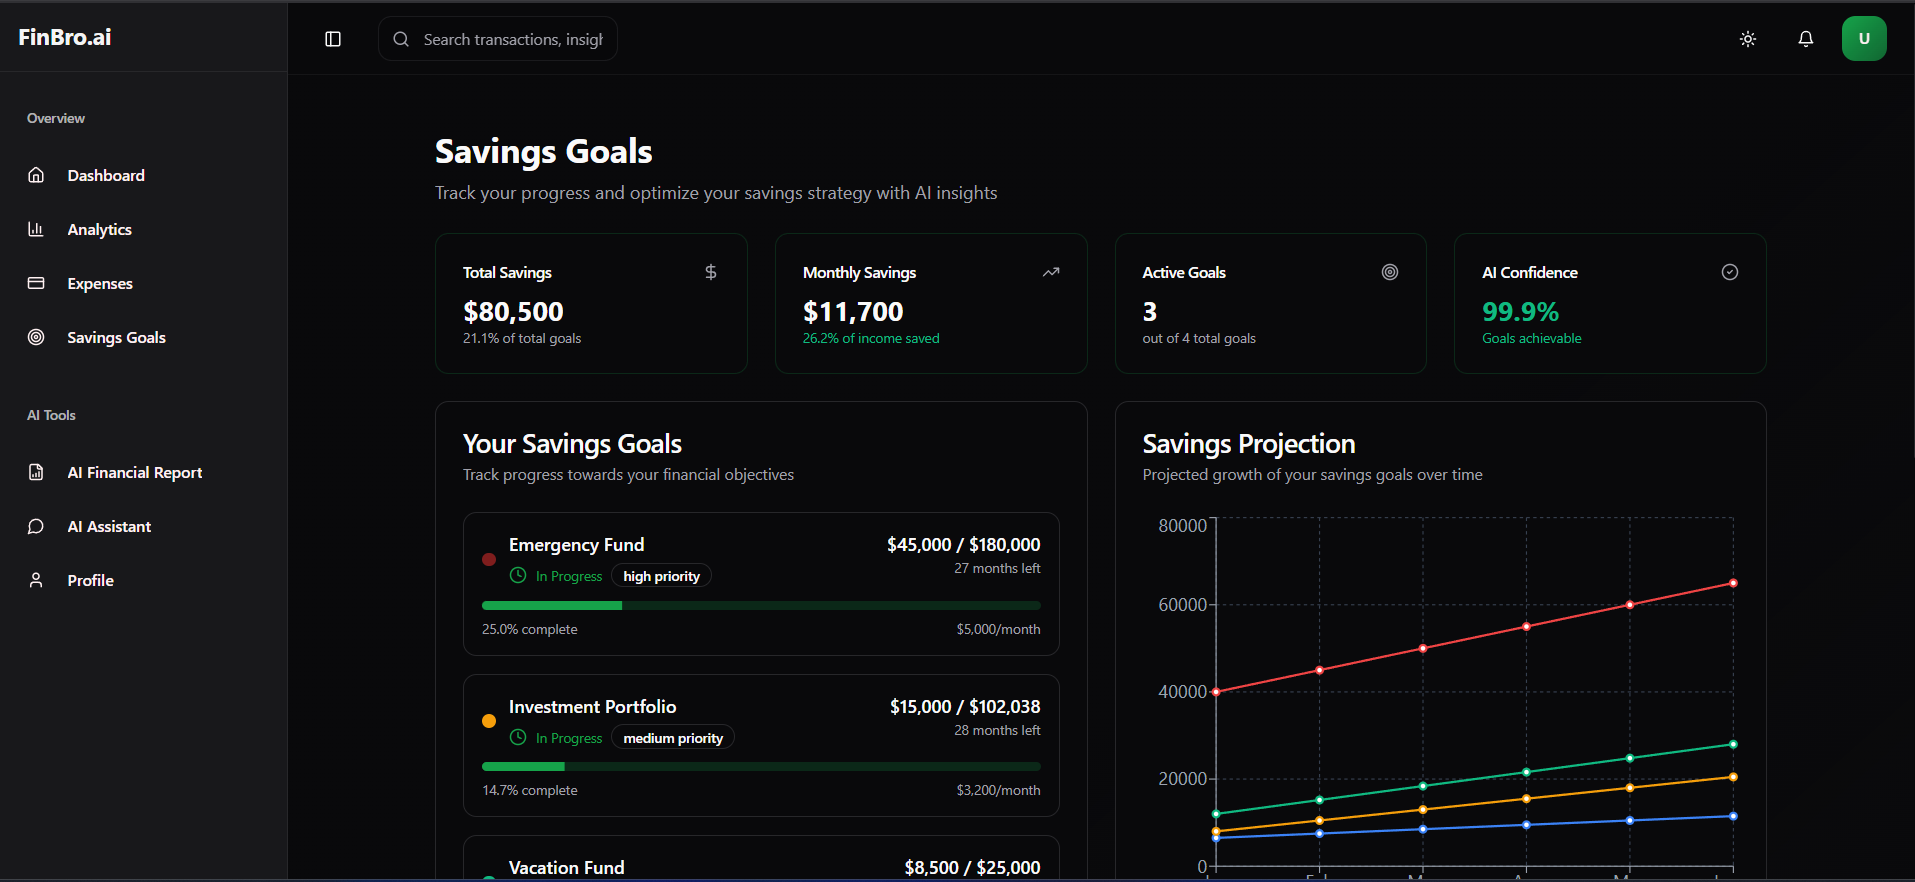
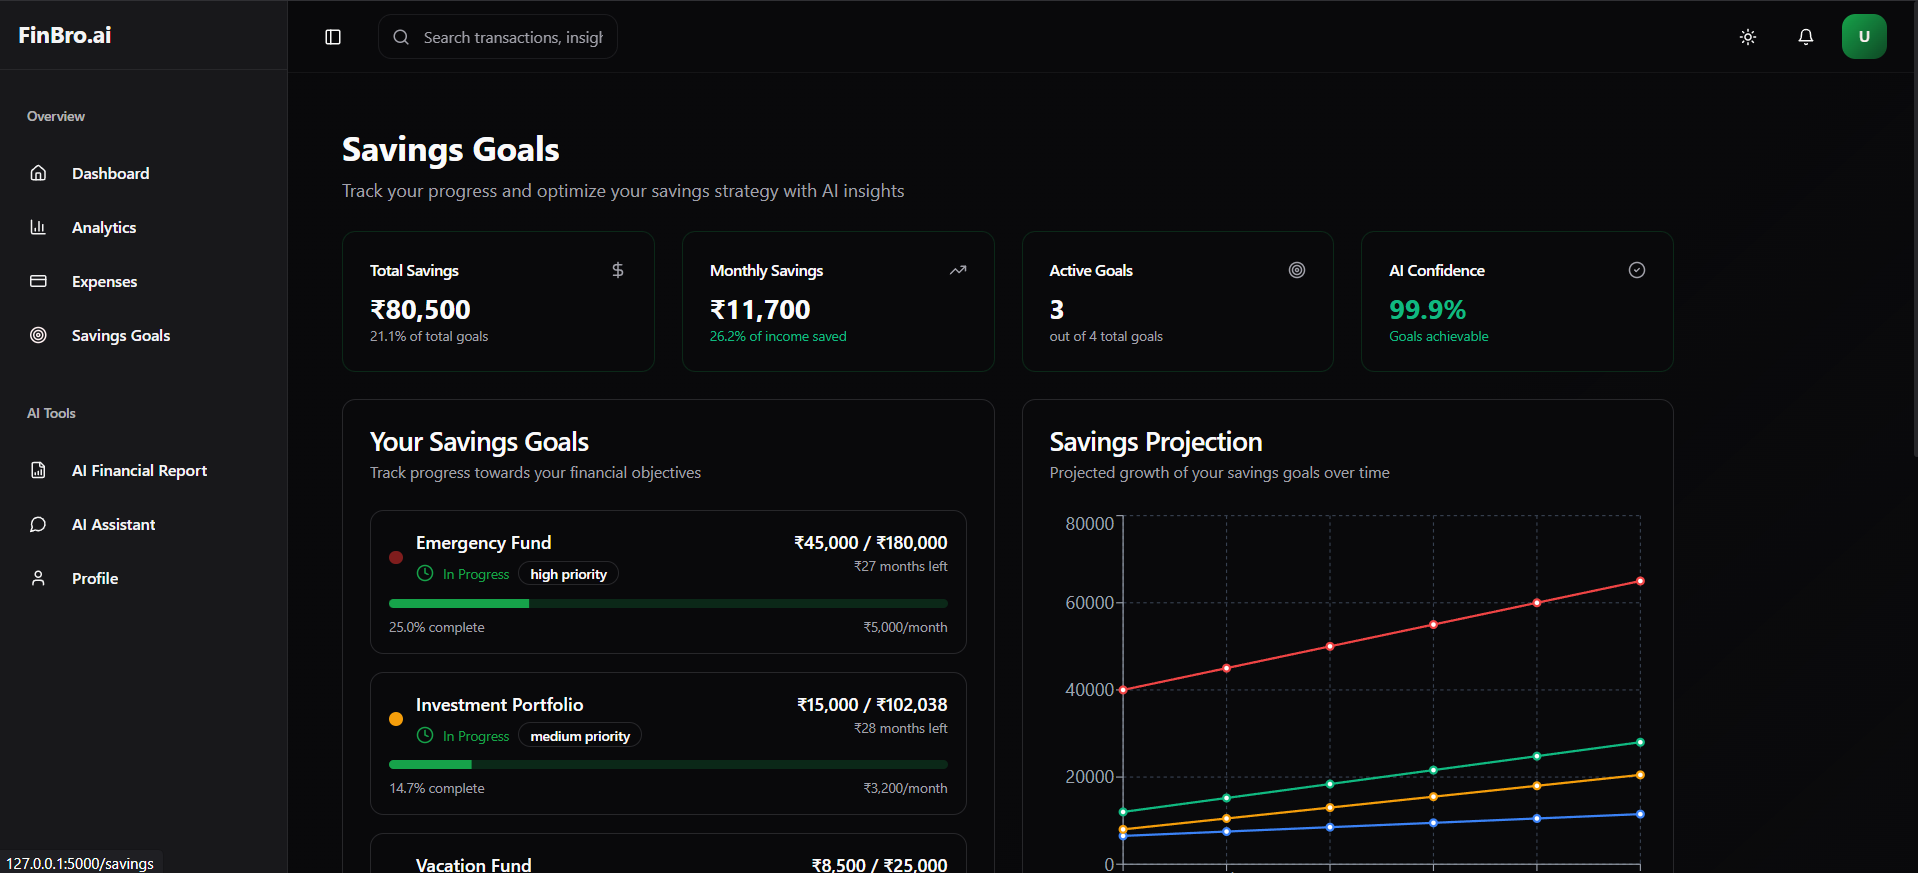
added new images

diff --git a/frontend/src/pages/FinancialReport.tsx b/frontend/src/pages/FinancialReport.tsx
@@ -354,7 +354,7 @@ const FinancialReport = () => {
                   <div className="p-6 bg-white/50 dark:bg-black/20 rounded-xl">
                     <h3 className="text-lg font-semibold mb-2">Standard Model</h3>
                     <p className="text-3xl font-bold text-blue-600">
-                      ${mlResponse.amount_model.recommended_savings.toLocaleString()}
+                      ₹{mlResponse.amount_model.recommended_savings.toLocaleString()}
                     </p>
                     <p className="text-sm text-muted-foreground mt-1">Recommended annual savings</p>
                   </div>
@@ -364,7 +364,7 @@ const FinancialReport = () => {
                   <div className="p-6 bg-white/50 dark:bg-black/20 rounded-xl">
                     <h3 className="text-lg font-semibold mb-2">Multi-Task AI Model</h3>
                     <p className="text-3xl font-bold text-indigo-600">
-                      ${mlResponse.multi_task_model.recommended_savings_amount.toLocaleString()}
+                      ₹{mlResponse.multi_task_model.recommended_savings_amount.toLocaleString()}
                     </p>
                     <p className="text-sm text-muted-foreground mt-1">Advanced AI recommendation</p>
                     <div className="mt-3 flex items-center space-x-2">

diff --git a/frontend/src/components/AppSidebar.tsx b/frontend/src/components/AppSidebar.tsx
@@ -83,7 +83,7 @@ export function AppSidebar() {
       <SidebarContent className={theme === 'light' ? 'bg-white' : 'bg-sidebar'}>
         <div className="p-4 border-b" style={{ borderColor: theme === 'light' ? '#e5e7eb' : undefined }}>
           <h2 className={`font-bold text-xl ${theme === 'light' ? 'text-slate-800' : 'text-sidebar-foreground'} ${isCollapsed ? 'hidden' : 'block'}`}>
-            FinPal
+            FinBro.ai
           </h2>
           {isCollapsed && (
             <div className="w-8 h-8 bg-primary rounded-lg flex items-center justify-center">

diff --git a/README.md b/README.md
@@ -1,10 +1,19 @@
 # FinBro.ai - AI-Powered Personal Finance Assistant
 
-<p align="center">
-  <img src="images/1-dashboard.png" alt="Dashboard" width="800"/>
-</p>
+## Team Lost_Not_Found
 
-FinBro.ai is an intelligent personal finance application that combines advanced machine learning models with a Gemini-powered chatbot to provide comprehensive financial insights and personalized advice.
+-   **Team Leader**: Janhavi Chavan
+-   **Members**:
+    -   Anchal Tandekar
+    -   Rejwanul Hoque
+
+## Project Overview
+
+FinBro.ai is an advanced financial management platform that leverages cutting-edge machine learning models and Google's Gemini AI to provide personalized financial guidance. By analyzing over 26 financial parameters, including income, expenses, and spending patterns, our system offers accurate savings predictions, risk assessments, and tailored financial advice through an intuitive chat interface.
+
+<p align="center">
+  <img src="images/1-white-dashboard.png" alt="Dashboard Light Theme" width="800"/>
+</p>
 
 ## 🌟 Key Features
 
@@ -16,7 +25,7 @@ FinBro.ai is an intelligent personal finance application that combines advanced 
 -   **Confidence Scoring**: Precise confidence metrics for all predictions
 
 <p align="center">
-  <img src="images/2-analytics.png" alt="Analytics" width="800"/>
+  <img src="images/2-analytics.png" alt="Analytics Dark Theme" width="800"/>
 </p>
 
 ### 2. Gemini-Powered AI Assistant
@@ -27,7 +36,7 @@ FinBro.ai is an intelligent personal finance application that combines advanced 
 -   **Data-Backed Suggestions**: Recommendations based on your financial profile
 
 <p align="center">
-  <img src="images/3-expense.png" alt="Expenses" width="800"/>
+  <img src="images/3-white-expense.png" alt="Expenses Light Theme" width="800"/>
 </p>
 
 ### 3. Smart Savings Tracker
@@ -37,7 +46,7 @@ FinBro.ai is an intelligent personal finance application that combines advanced 
 -   **AI-Powered Recommendations**: Personalized tips to optimize savings
 
 <p align="center">
-  <img src="images/4-savings.png" alt="Savings Goals" width="800"/>
+  <img src="images/4-savings.png" alt="Savings Goals Dark Theme" width="800"/>
 </p>
 
 ### 4. Interactive Chat Interface
@@ -47,7 +56,7 @@ FinBro.ai is an intelligent personal finance application that combines advanced 
 -   **Actionable Insights**: Practical advice you can implement immediately
 
 <p align="center">
-  <img src="images/5-chatbot.png" alt="AI Assistant" width="800"/>
+  <img src="images/5-white-chatbot.png" alt="AI Assistant Light Theme" width="800"/>
 </p>
 
 ### 5. Financial Report Generator
@@ -57,7 +66,7 @@ FinBro.ai is an intelligent personal finance application that combines advanced 
 -   **Future Projections**: AI-powered financial forecasting
 
 <p align="center">
-  <img src="images/6-financialReport.png" alt="Financial Report" width="800"/>
+  <img src="images/6-white-Report.png" alt="Financial Report Light Theme" width="800"/>
 </p>
 
 ## 🛠 Technology Stack
